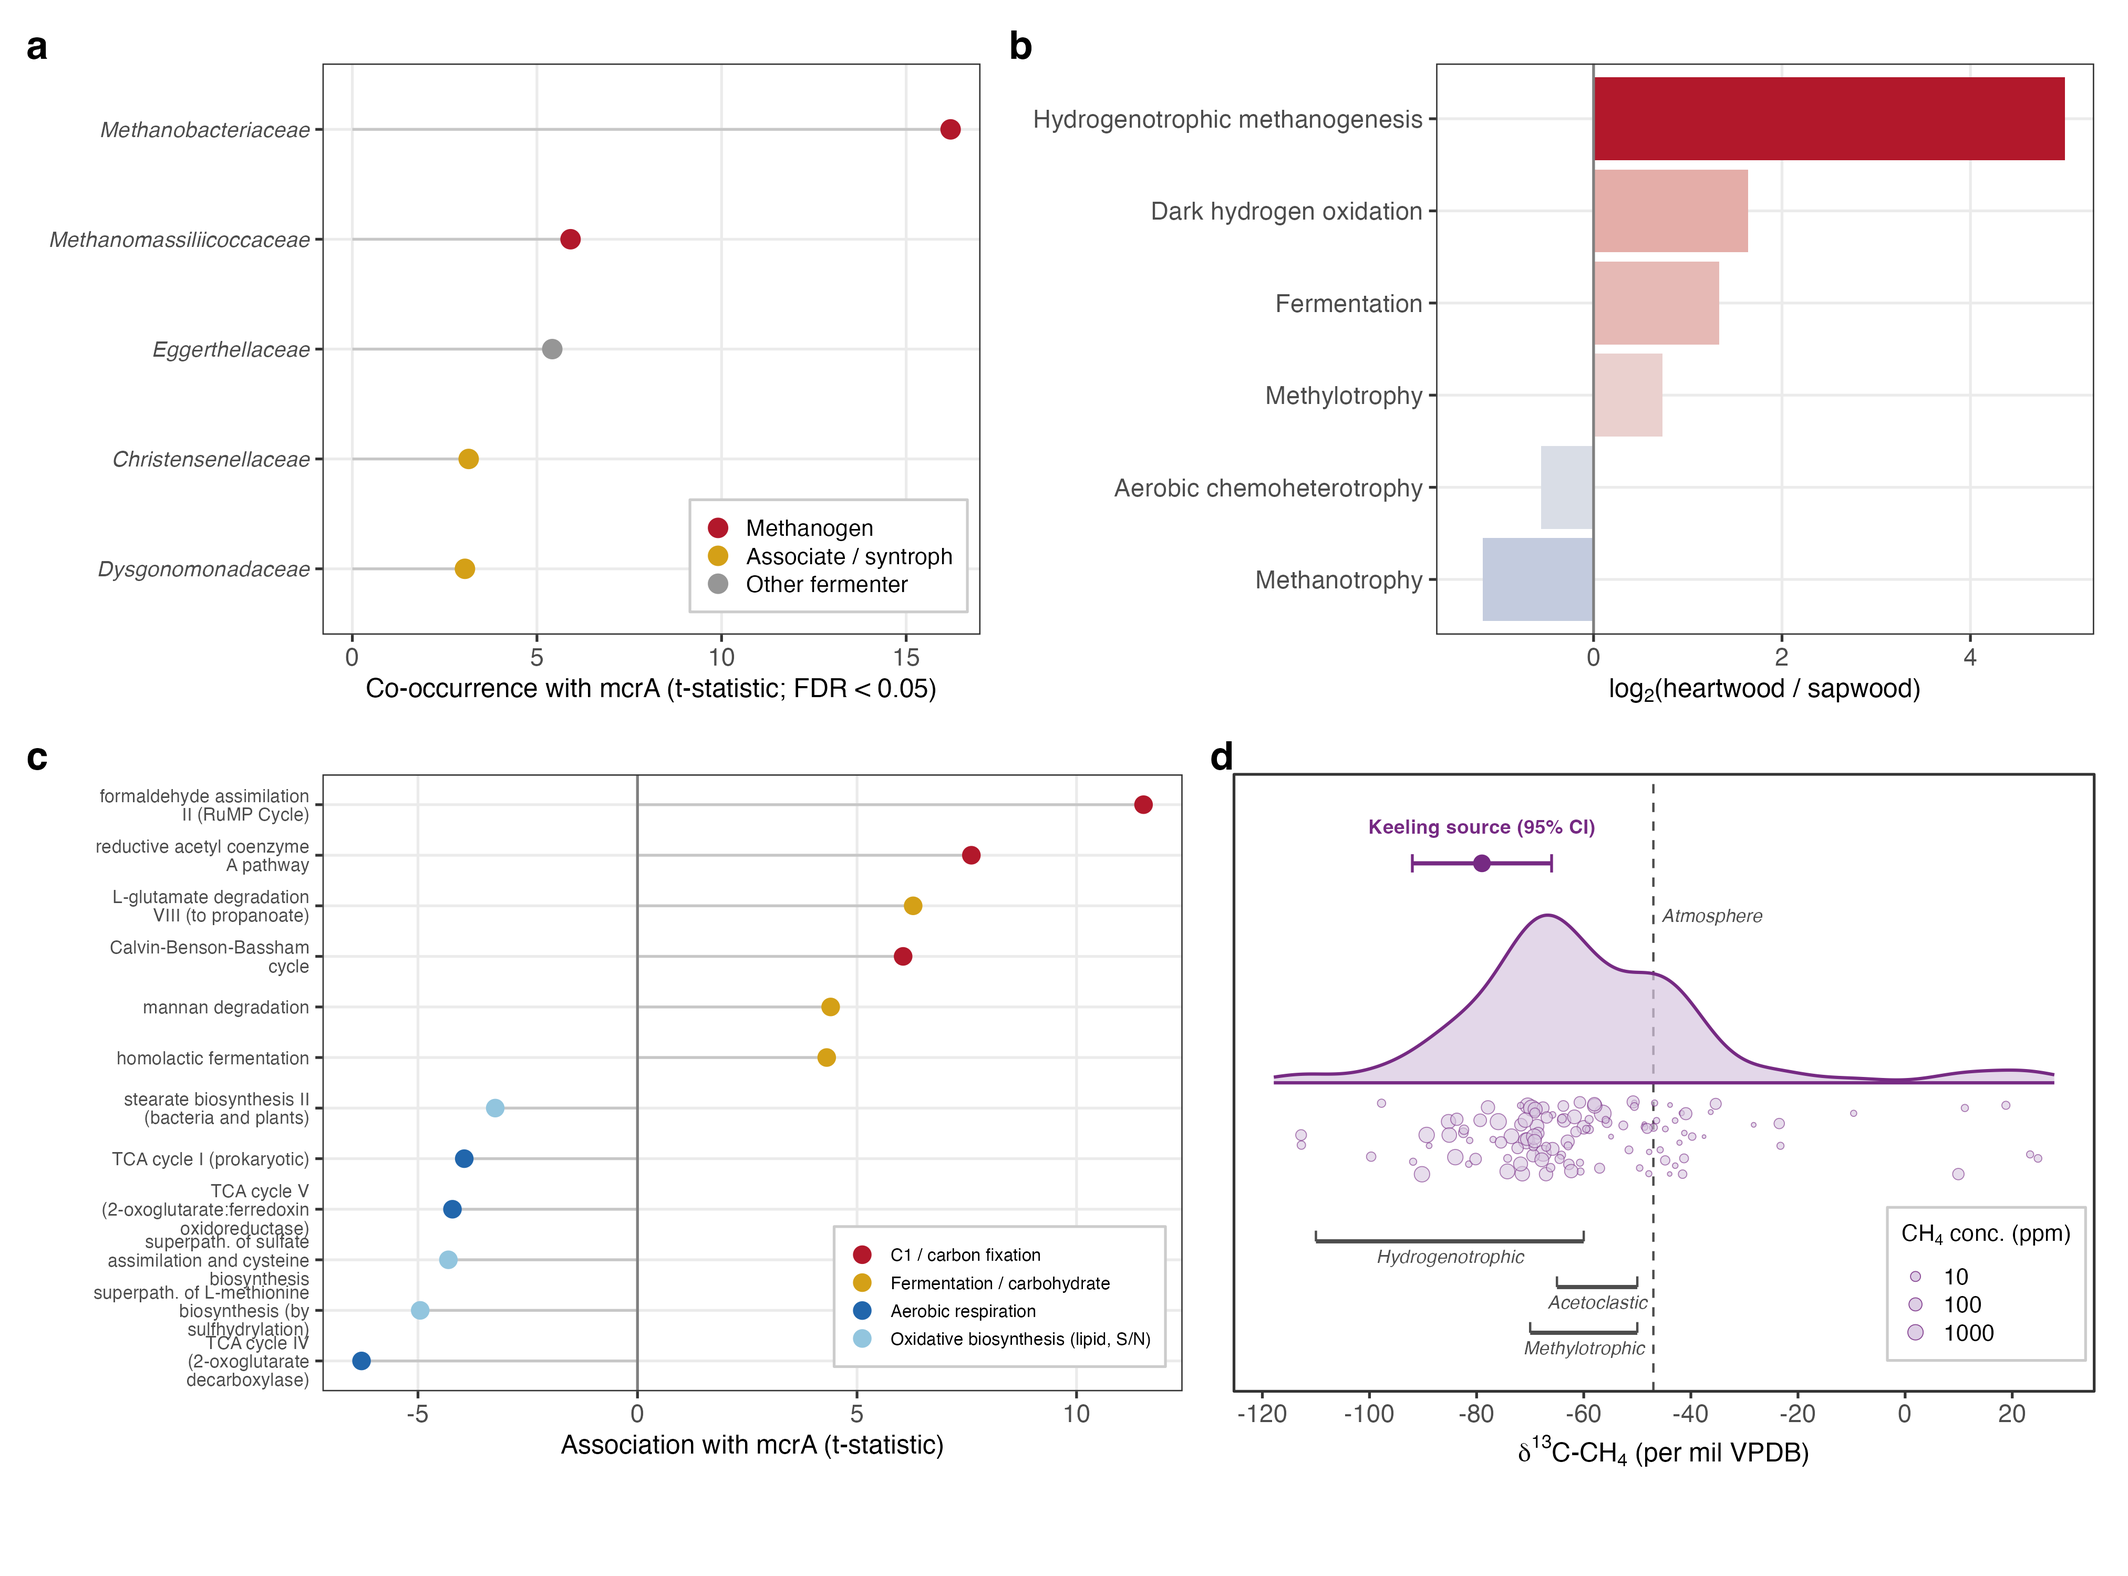
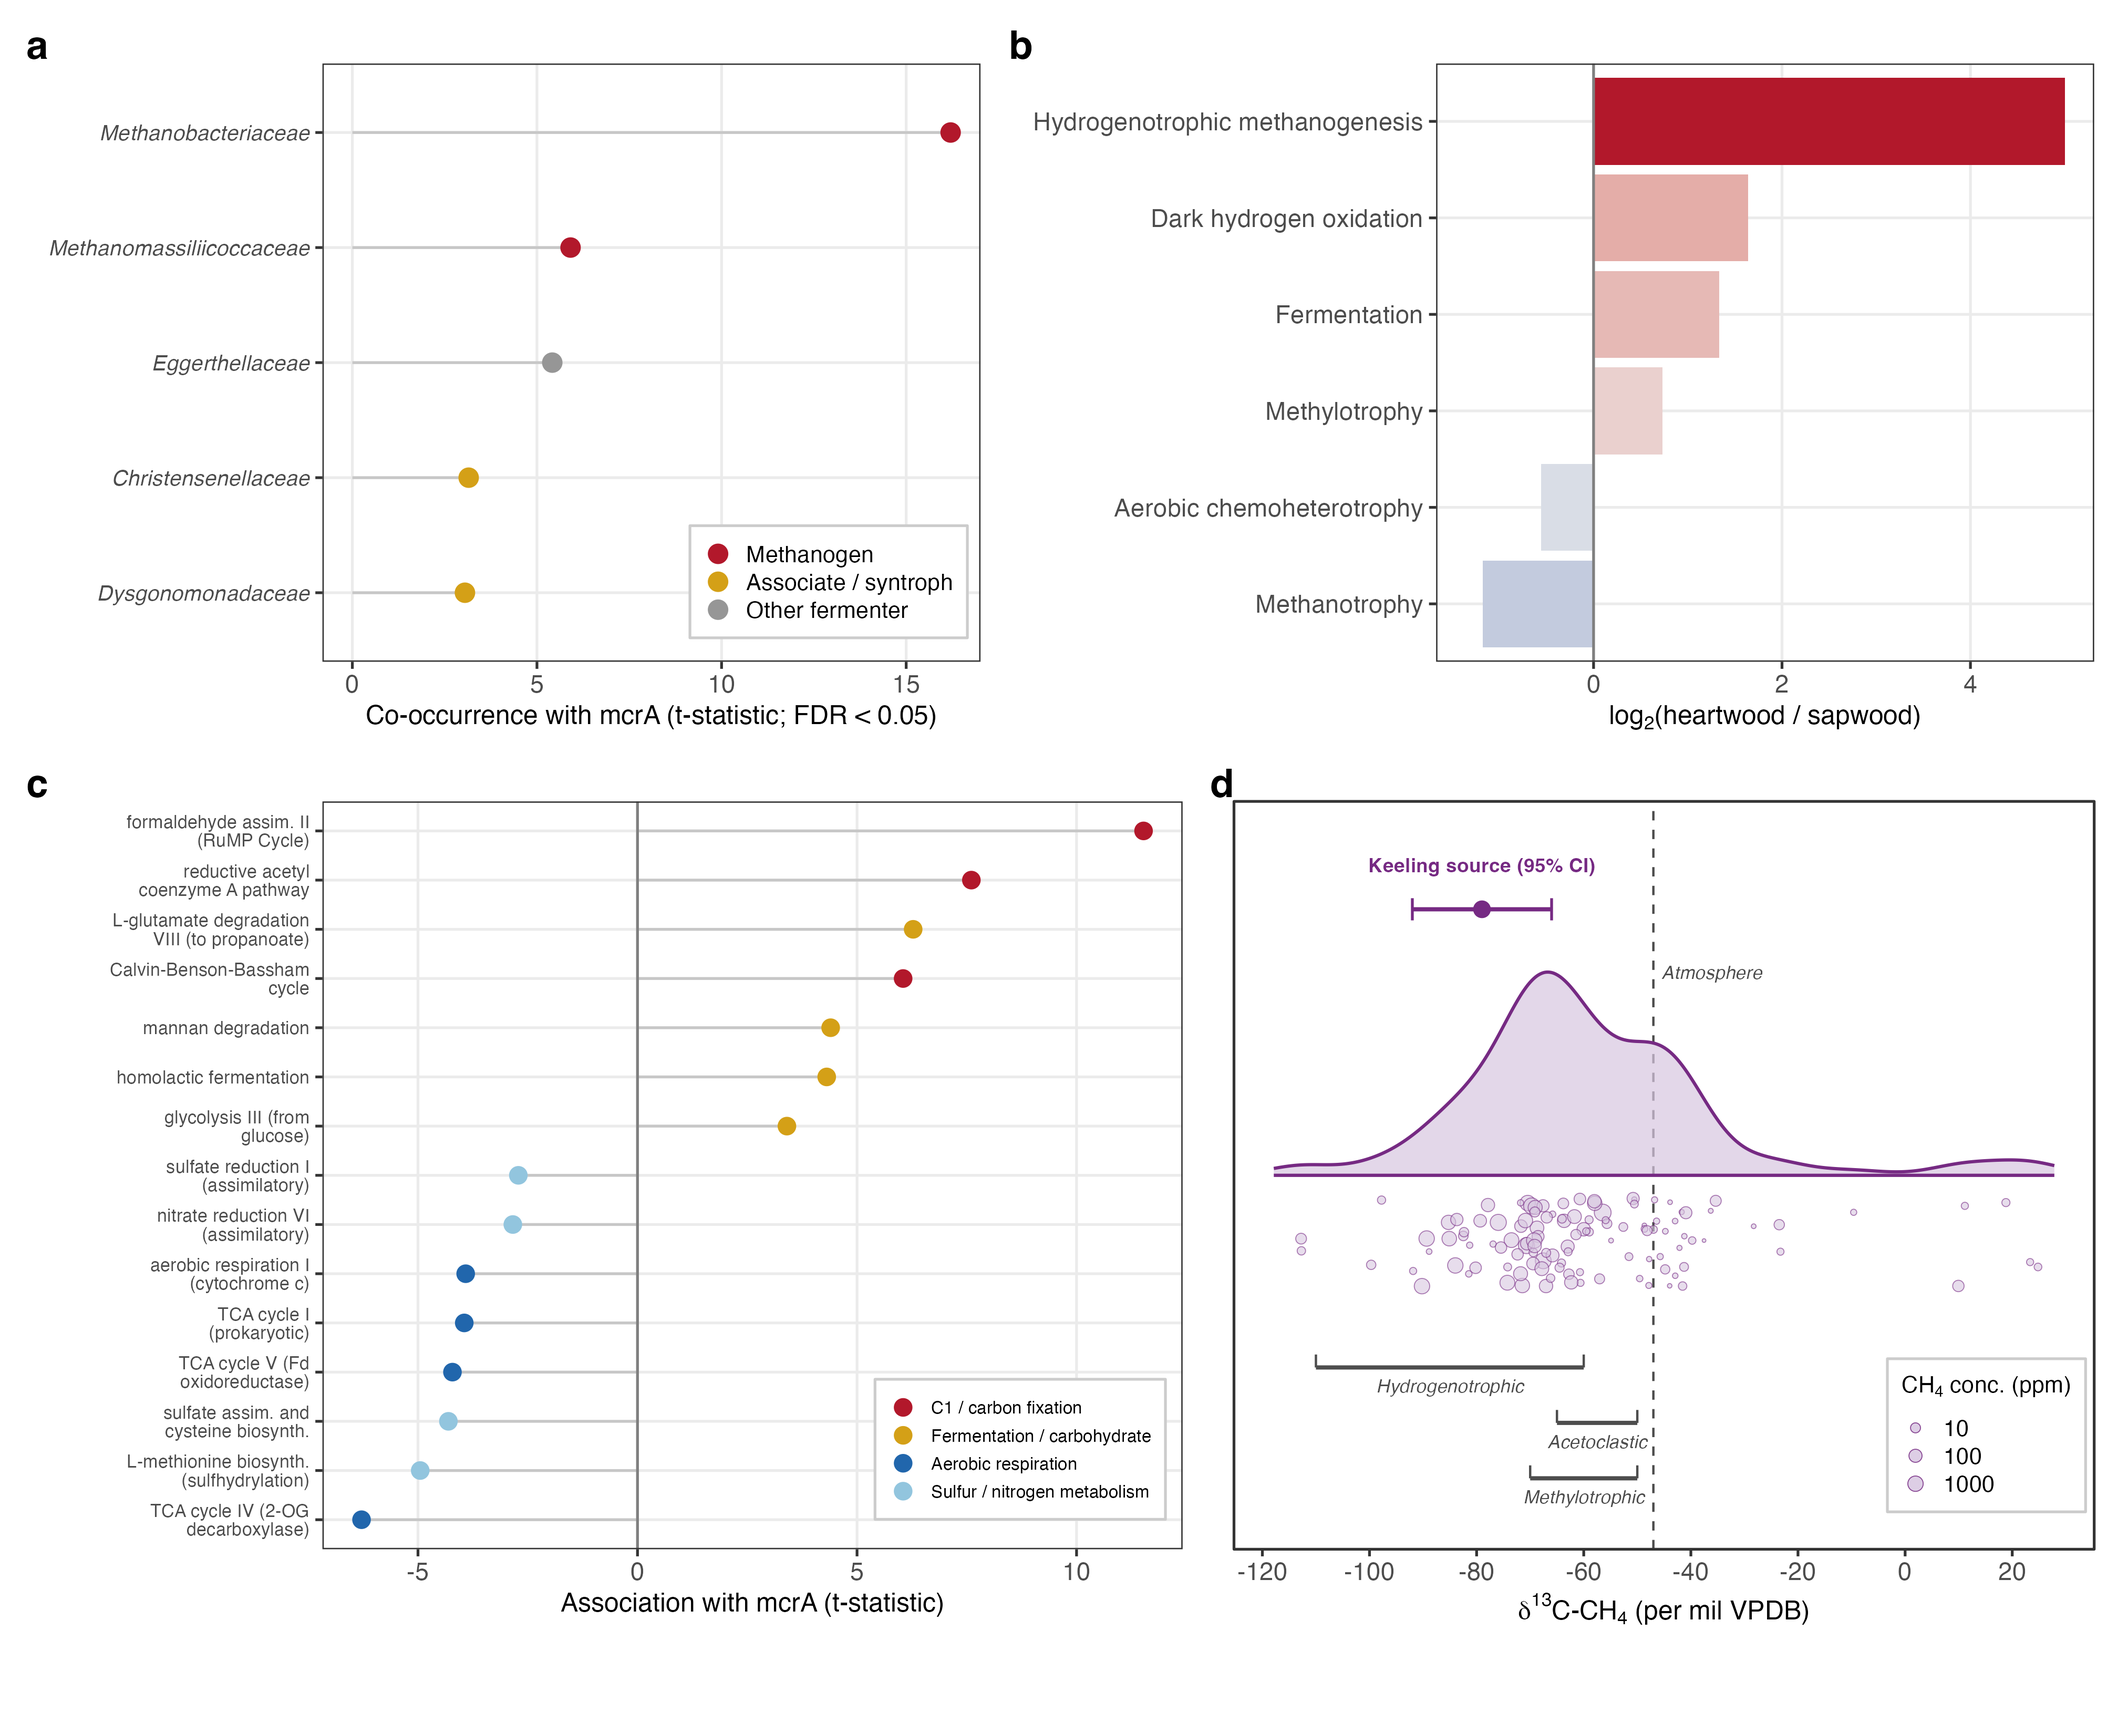
Panel c: FDR<0.05, surface assimilatory nitrate/sulfate reduction
- Relax all categories to FDR<0.05 (was 0.01) so the two assimilatory
  reduction pathways (nitrate reduction VI FDR=0.015, sulfate reduction I
  FDR=0.020) qualify.
- Split lipid/fatty-acid biosynthesis out of the S/N category so the
  reduction pathways rank #3-4 (not #8-9 behind lipids) and are displayed;
  lipid retained in SI table under its own label.
- Show top-4 per category: adds aerobic respiration I (cytochrome c) and
  glycolysis III; S/N now shows both reductions + sulfate/methionine
  assimilation. Rename light-blue category "Sulfur / nitrogen metabolism".
- Shorten pathway labels + taller panel c (15 rows, no label collisions).

Caption/doc: add redox-ladder interpretation with the honest limit that
these N/S pathways are ASSIMILATORY (community redox-state proxy), not
dissimilatory TEA competition (dissimilatory denitrification n.s.).

diff --git a/revision/text/panel_c_pathway_categories.md b/revision/text/panel_c_pathway_categories.md
@@ -16,11 +16,19 @@ statistic — then shows representative pathways per mechanistically-relevant ca
    the same non-circularity filter as Fig. 6 — it removes the archaeal/methanogenesis-cofactor
    pathways (coenzyme M/B, tetrahydromethanopterin, methanogenesis-from-acetate, archaeal
    lipids), which are the methanogens' own genomes and would be tautological.
-2. FDR < 0.01 (linear mixed-effects association with *mcrA*).
+2. FDR < 0.05 (linear mixed-effects association with *mcrA*).
 
-Result: 143 significant low-contribution pathways at FDR < 0.05 (109 at FDR < 0.01), of which
-98 (~69%) are generic housekeeping and are **not shown**. The remaining pathways fall into the
-functional categories below.
+Result: 143 significant low-contribution pathways, of which ~69% are generic housekeeping (and
+lipid/fatty-acid biosynthesis) that are **not shown**. The remaining pathways fall into the four
+displayed functional categories below; up to four representative pathways per category are shown
+(top by |t|).
+
+**Display note (lipid + threshold):** the *displayed* Sulfur/nitrogen category excludes lipid/
+fatty-acid biosynthesis so that the assimilatory nitrate- and sulfate-reduction pathways (ranks
+#3–4 within an S/N-only category) are visible; in a merged lipid+S/N category they would rank #8–9
+behind five lipid pathways. Lipid biosynthesis is retained in the SI classification table under its
+own label. The FDR threshold is 0.05 (looser than Fig. 6's 0.01) so that the two reduction pathways
+(FDR 0.015 and 0.020) are included; this is noted in the caption.
 
 ## Full-set category summary (FDR < 0.05, all pathways; independent of display)
 
@@ -40,17 +48,30 @@ There is essentially **no dissimilatory N/S/Fe/Mn respiration signal** — the o
 present are *assimilatory* sulfate/nitrate and they trend negative (aerobe-associated). So we do
 not frame this as metal/N/S redox cycling.
 
-## Displayed pathways (top 3 by |t| per category; colours as in figure)
+## Displayed pathways (top 4 by |t| per category, FDR < 0.05; colours as in figure)
 
 - **C1 / carbon fixation** (red, positive): formaldehyde assimilation II (RuMP cycle, t=+11.5);
-  reductive acetyl-CoA pathway (+7.6); Calvin-Benson-Bassham cycle (+6.0).
+  reductive acetyl-CoA pathway (+7.6); Calvin-Benson-Bassham cycle (+6.0). [only 3 in category]
 - **Fermentation / carbohydrate** (gold, positive): L-glutamate degradation VIII → propanoate
-  (+6.3); mannan degradation (+4.4); homolactic fermentation (+4.3).
+  (+6.3); mannan degradation (+4.4); homolactic fermentation (+4.3); glycolysis III (+3.4).
 - **Aerobic respiration** (dark blue, negative): TCA cycle IV (−6.3); TCA cycle V
-  (2-oxoglutarate:ferredoxin oxidoreductase) (−4.2); TCA cycle I, prokaryotic (−3.9).
-- **Oxidative biosynthesis — lipid, assimilatory S/N** (light blue, negative): superpathway of
-  L-methionine biosynthesis by sulfhydrylation (−4.9); superpathway of sulfate assimilation +
-  cysteine biosynthesis (−4.3); stearate biosynthesis II (−3.2).
+  (2-oxoglutarate:ferredoxin oxidoreductase) (−4.2); TCA cycle I, prokaryotic (−3.9);
+  aerobic respiration I, cytochrome c (−3.9).
+- **Sulfur / nitrogen metabolism** (light blue, negative): L-methionine biosynthesis by
+  sulfhydrylation (−4.95); sulfate assimilation + cysteine biosynthesis (−4.31);
+  **nitrate reduction VI, assimilatory (−2.84)**; **sulfate reduction I, assimilatory (−2.71)**.
+
+## Redox-ladder interpretation (and its limit)
+
+The joint depletion of aerobic respiration *and* assimilatory nitrate/sulfate reduction where
+*mcrA* is high is consistent with methanogens occupying the most reducing, oxidant-poor microsites —
+the classic thermodynamic redox ladder, in which methanogenesis is favoured only once higher-yield
+electron acceptors (O₂ > NO₃⁻ > … > SO₄²⁻) are drawn down. **Important limit:** the significant N/S
+pathways here are *assimilatory* (incorporating N/S into biomass), not *dissimilatory* (using
+NO₃⁻/SO₄²⁻ as terminal electron acceptors in respiration). The only dissimilatory pathway present —
+nitrate reduction I (denitrification) — is non-significant (t = −0.42, FDR = 0.74). So this is best
+read as a **community redox-state proxy**, not direct evidence of terminal-electron-acceptor
+competition. Phrase text accordingly ("consistent with," not "demonstrates").
 
 ## Defensibility notes
 - Category membership is assigned from MetaCyc pathway descriptions (keyword rules, documented in

diff --git a/revision/text/new_figure_captions.md b/revision/text/new_figure_captions.md
@@ -16,25 +16,29 @@
 > functions (hydrogenotrophic methanogenesis, dark hydrogen oxidation, fermentation, methylotrophy)
 > are enriched in heartwood (red) while aerobic functions (aerobic chemoheterotrophy, methanotrophy)
 > are enriched in sapwood (blue); colour intensity scales with log₂(HW/SW). **(c)** MetaCyc pathways
-> (PICRUSt2) associated with *mcrA* abundance (linear mixed-effects t-statistic; FDR < 0.01, after
+> (PICRUSt2) associated with *mcrA* abundance (linear mixed-effects t-statistic; FDR < 0.05, after
 > removing predicted contributions from methanogen-classified ASVs and excluding pathways with >10%
 > methanogen-ASV contribution, as in Fig. 6). Pathways were classified by MetaCyc function *a priori*
-> (independent of the association) and generic housekeeping pathways excluded; three representative
+> (independent of the association) and generic housekeeping pathways excluded; up to four representative
 > pathways per category are shown (top by |t|). Anaerobic carbon flow tracks *mcrA* — C1/carbon-
 > fixation (red; RuMP cycle, reductive acetyl-CoA, Calvin-Benson) and fermentation/carbohydrate
-> degradation (gold) — while aerobic and oxidative metabolism is depleted — aerobic respiration
-> (dark blue; TCA-cycle variants) and oxidative biosynthesis including assimilatory sulfur/nitrogen
-> and lipid synthesis (light blue). No dissimilatory N/S/Fe/Mn respiration signal was present; see
-> Methods and SI for the full classification. **(d)** Stable carbon isotopic composition of internal stem CH₄
+> degradation (gold) — while oxidant-linked metabolism is depleted: aerobic respiration (dark blue;
+> aerobic respiration I, TCA-cycle variants) and sulfur/nitrogen metabolism (light blue; assimilatory
+> sulfate and nitrate reduction, sulfate/cysteine and methionine biosynthesis). The joint depletion of
+> aerobic respiration *and* nitrate/sulfate reduction where *mcrA* is high is consistent with methanogens
+> occupying the most reducing, oxidant-poor microsites (the thermodynamic redox ladder); note these N/S
+> pathways are assimilatory, so this is a community redox-state signal rather than direct evidence of
+> terminal-electron-acceptor competition (no significant *dissimilatory* denitrification/sulfate-reduction
+> signal). See Methods and SI for the full classification. **(d)** Stable carbon isotopic composition of internal stem CH₄
 > (n internal samples; kernel density above, individual samples below sized by CH₄ concentration).
 > The distribution is ¹³C-depleted, and the atmosphere-corrected tree-produced source (Keeling-plot
 > intercept −79‰, 95% CI shown; two-endmember mixing correction −70‰) falls in the hydrogenotrophic
 > (CO₂-reduction) range (brackets, Whiticar 1999); the apparent CO₂–CH₄ fractionation ε_C = 54–64‰ is
 > likewise consistent with CO₂ reduction. Dashed line, atmospheric δ¹³CH₄ (−47‰).
 > Colour scheme: warm = *mcrA*-associated / anaerobic (red = methanogenesis, C1/carbon fixation;
-> gold = fermentative associates / fermentation); cool = depleted / aerobic (dark blue = aerobic
-> respiration; light blue = oxidative biosynthesis, assimilatory S/N); grey = co-occurring fermenter
-> without an H₂ link (panel a); purple (d) = internal CH₄.
+> gold = fermentative associates / fermentation); cool = depleted / oxidant-linked (dark blue = aerobic
+> respiration; light blue = sulfur/nitrogen metabolism); grey = co-occurring fermenter without an H₂
+> link (panel a); purple (d) = internal CH₄.
 > Taxonomy (a) and isotopes (d) are the primary evidence; the 16S-based functional predictions (b, c)
 > are corroborative and subject to the known limitations of taxonomy-based functional inference (Methods).
 
